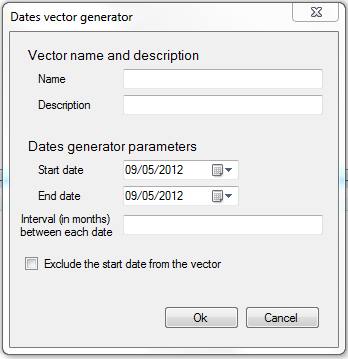
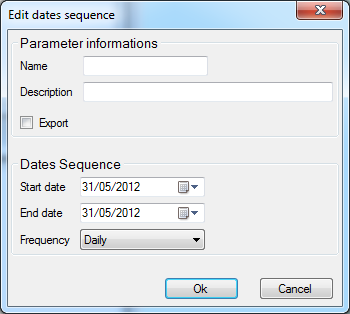
Updated the documentation.
Updated the instructions, screenshots and functionalities so they are correct with the last version of the plugin.

diff --git a/Documentation/DatesGenerator.tex b/Documentation/DatesGenerator.tex
@@ -12,11 +12,11 @@ In the new symbol dialog window, a new symbol type is available.
 After Dates Generator has been installed as a plugin from Settings $\to$ Plugins Settings 
 $\to$ Available online plugins, you can then use it this way: 
 \begin{enumerate}
-\item Go to the Parameters \& Function window
+\item Go to the Parameters \& Functions window
 \item Click Add
-\item Select Dates Generator and press Ok
+\item Select Dates Generator and click Ok
 \end{enumerate}
-As you can see into the figure\label{fig:DG}, is possible set the start date and the end date setting also the right interval in months term, into the gap. 
+As you can see in the figure\label{fig:DG}, it is possible to set the start date and the end date setting also the desidered interval between each date entry (between these options: Daily, Weekly, Bi-Weekly, Montly, Three Months, Six Months, and Year).
 \begin{figure}[h!]
 \includegraphics[width=4cm]{DG_img}
 \centering
@@ -24,9 +24,24 @@ As you can see into the figure\label{fig:DG}, is possible set the start date and
 \caption{\small{\emph{Dates Generator window.}}}
 \label{fig:DG}
 \end{figure}
-Also, is possible to esclude the first date of the series.\\
-\\
-This new features allows to build a vector of date directly in Fairmat avoiding the 
+The export option is used in Fairmat Server and Fairmat Professional to determine if the dates sequence will be shown from the interface and the templates.
+This procedure will make the Dates Generator manage the new parameter at all time. 
+
+In case you want to be able to edit the output of the Dates Generator you'll have to follow a different procedure:
+\begin{enumerate}
+\item Go to the Parameters \& Functions window.
+\item Click Add
+\item Select Vector and click Ok
+\item Give the new vector a name and close it by clicking Ok
+\item Right click on the newly created vector and select Dates Generator
+\item Fill in the dates and frequency and press Ok
+\end{enumerate}
+
+This way the vector will be populated with all the dates in the requested way.
+
+
+
+This new feature allows to build a vector of date directly in Fairmat avoiding the 
 copy and paste from other software (i.e. Excel spreadsheet).
 
 \end{document}
